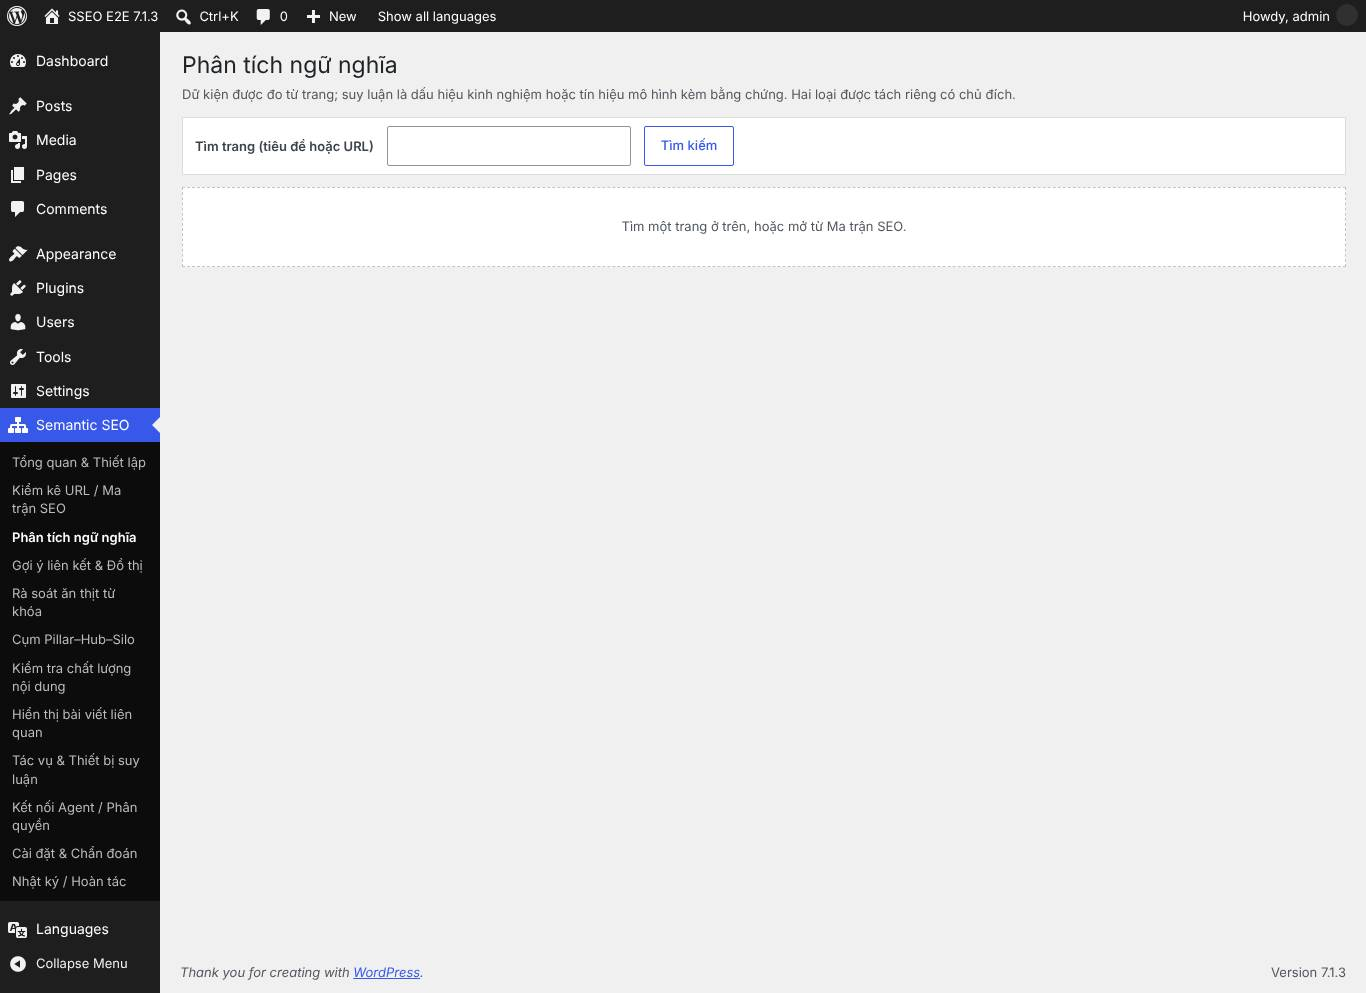
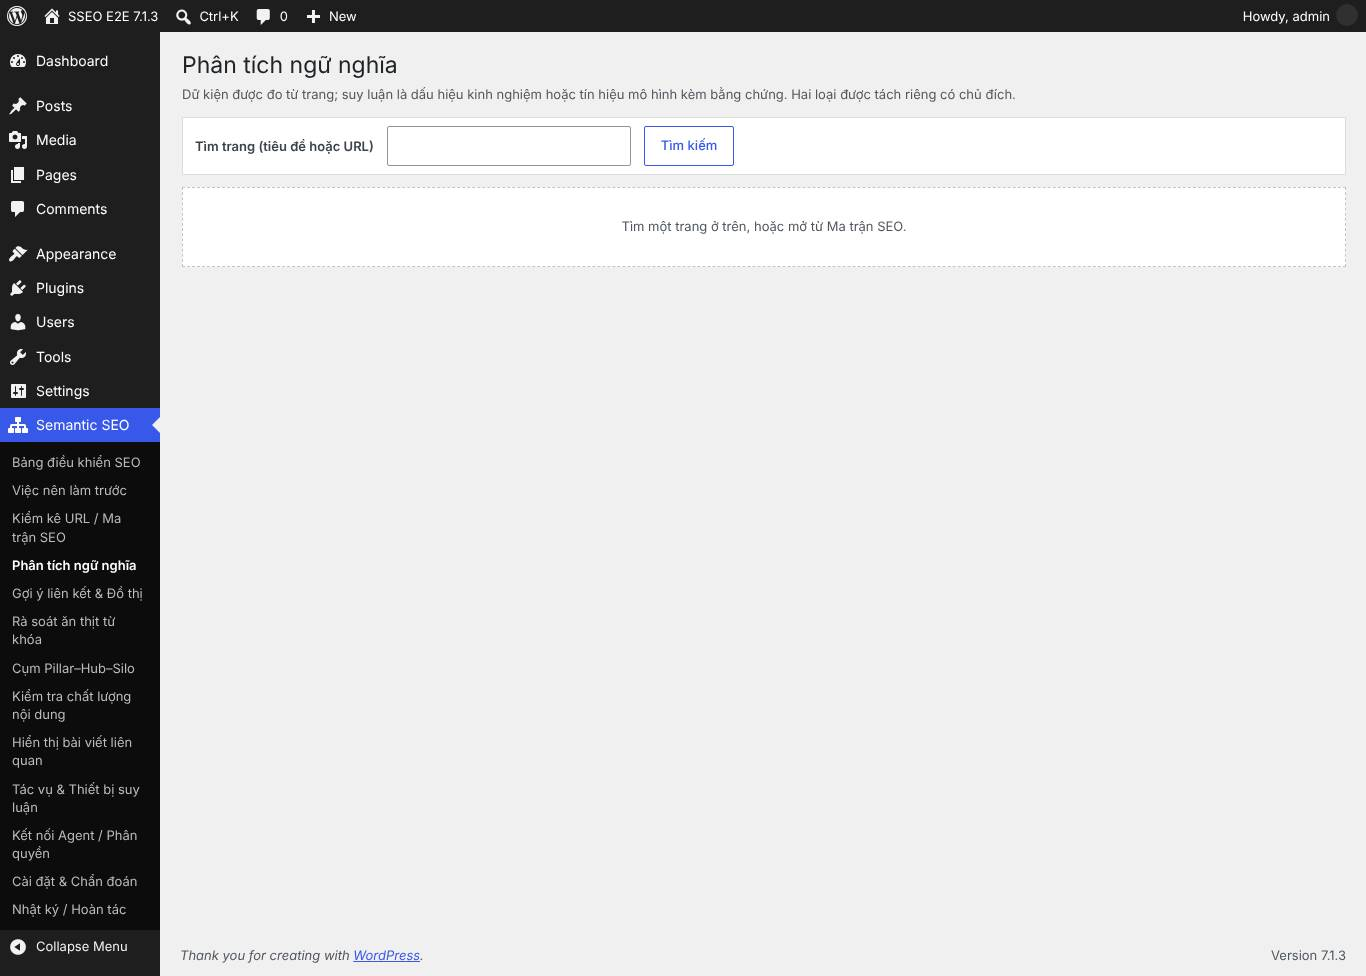
fix: no SQL error on an incomplete database; CI fixes for the renamed vector column
- Dashboard (system check, Qwen card) and /status no longer query the
  embeddings table while it is missing (the MariaDB 11.7+ case before the
  upgrade): they report zero vectors instead of logging "Table ...
  doesn't exist". Regression test: the dashboard of a 15/16-table
  install never reads the missing table (fails before this change).
- DashboardDataTest expected the Qwen state of a build with the browser
  runtime bundled; the CI integration job has no bundle, so the state is
  'unavailable' there. The test now checks the state for both builds.
- tests/e2e/private-worker.sh still selected e.vector (renamed to
  vector_data in schema 4): the independent re-check got no row and the
  real-model CI job failed. Fails loudly now if no vector is stored.
- Benchmark also measures /health, /priorities and /scans.
- Screenshots regenerated from the beta.4 build (new dashboard).

Local: integration 139/139 on MariaDB 10.11.14, 11.8.9 and MySQL 8.4;
HTTP agent 26/26 (WP 7.1.3, 6.9.10, MCP Adapter 0.7.1), 22/22 (6.5.13);
private worker (fixture) 89/89 stored, max abs diff 4.47e-08.

Claude-Session: https://claude.ai/code/session_01GCYBjXPGwVJAvRvFYM2KsS

diff --git a/includes/Services/HealthReport.php b/includes/Services/HealthReport.php
@@ -140,7 +140,7 @@ final class HealthReport {
 				. ( $cron_off ? __( 'WP-Cron is disabled: scans advance while this page is open or through WP-CLI.', 'semantic-seo-engine-vi-en' ) : __( 'Scans run in the background through WP-Cron in short batches.', 'semantic-seo-engine-vi-en' ) ),
 		);
 
-		$qwen     = self::qwen();
+		$qwen     = self::qwen( $db['ready'] );
 		$checks[] = array(
 			'id'     => 'model',
 			'level'  => 'ok',
@@ -161,11 +161,18 @@ final class HealthReport {
 	/**
 	 * State of the optional Qwen3 embedding model.
 	 *
+	 * @param bool|null $db_ready Whether every plugin table exists (null = check). The embeddings table
+	 *                            is the one MariaDB 11.7+ refused before schema 4, so it is not queried
+	 *                            while the schema is incomplete.
 	 * @return array{state:string,label:string,detail:string,runtime_bundled:bool,vectors:int,documents_with_vector:int,device_verified:bool}
 	 */
-	public static function qwen() {
+	public static function qwen( $db_ready = null ) {
+		$db_ready = null === $db_ready ? Environment::db_schema()['ready'] : (bool) $db_ready;
 		$profile  = ModelProfile::active();
-		$stats    = EmbeddingRepository::stats( $profile['model_key'] );
+		$stats    = $db_ready ? EmbeddingRepository::stats( $profile['model_key'] ) : array(
+			'vectors_current_model' => 0,
+			'documents_with_vector' => 0,
+		);
 		$bundled  = file_exists( SSEO_DIR . 'assets/vendor/transformers/transformers.min.js' );
 		$verified = DeviceVerification::is_verified( get_current_user_id(), $profile['model_key'] );
 		if ( ! $bundled ) {
@@ -239,7 +246,7 @@ final class HealthReport {
 			'last_pilot'   => ScanHistory::latest( 'pilot' ),
 			'diff'         => $db['ready'] ? ScanHistory::diff( 10 ) : null,
 			'estimate'     => ScanHistory::estimate( (int) $scope['total'] ),
-			'qwen'         => self::qwen(),
+			'qwen'         => self::qwen( $db['ready'] ),
 			'permissions'  => self::permissions(),
 			'read_only'    => true,
 			'generated_at' => gmdate( 'c' ),

diff --git a/tests/php/Integration/AdminUiTest.php b/tests/php/Integration/AdminUiTest.php
@@ -402,8 +402,19 @@ final class AdminUiTest extends TestCase {
 		remove_filter( 'query', array( $this, '_create_temporary_tables' ) );
 		remove_filter( 'query', array( $this, '_drop_temporary_tables' ) );
 		global $wpdb;
-		$wpdb->query( 'DROP TABLE IF EXISTS ' . \SemanticSEO\Database\Schema::table( 'embeddings' ) ); // phpcs:ignore WordPress.DB
+		$table = \SemanticSEO\Database\Schema::table( 'embeddings' );
+		$wpdb->query( 'DROP TABLE IF EXISTS ' . $table ); // phpcs:ignore WordPress.DB
+		$read = array();
+		$spy  = static function ( $q ) use ( $table, &$read ) {
+			if ( false !== stripos( $q, 'FROM ' . $table ) ) {
+				$read[] = $q;
+			}
+			return $q;
+		};
+		add_filter( 'query', $spy );
 		$html = $this->render_page( 'sseo' );
+		remove_filter( 'query', $spy );
+		$this->assertSame( array(), $read, 'the dashboard never reads the missing table (no SQL error on an incomplete database)' );
 		$this->assertStringContainsString( 'sseo-health--error', $html );
 		$this->assertStringContainsString( 'Missing: embeddings', $html );
 		$this->assertStringContainsString( 'value="sseo_repair_db"', $html );

diff --git a/tests/php/Integration/DashboardDataTest.php b/tests/php/Integration/DashboardDataTest.php
@@ -37,7 +37,10 @@ final class DashboardDataTest extends TestCase {
 		$this->assertTrue( $o['read_only'] );
 		$this->assertNotEmpty( $o['permissions']['allowed'] );
 		$this->assertContains( 'Create 301 redirects', $o['permissions']['not_allowed'] );
-		$this->assertSame( 'not_enabled', $o['qwen']['state'] );
+		// The browser runtime is bundled by the release build (npm run build:vendor), not in every test checkout.
+		$bundled = file_exists( SSEO_DIR . 'assets/vendor/transformers/transformers.min.js' );
+		$this->assertSame( $bundled, $o['qwen']['runtime_bundled'] );
+		$this->assertSame( $bundled ? 'not_enabled' : 'unavailable', $o['qwen']['state'] );
 	}
 
 	public function test_priority_queue_is_ordered_explained_and_filterable() {

diff --git a/includes/Services/Api.php b/includes/Services/Api.php
@@ -107,7 +107,12 @@ final class Api {
 			'link_coverage'   => LinkGraph::coverage(),
 			'findings'        => FindingRepository::summary(),
 			'semantic'        => array_merge(
-				EmbeddingRepository::stats( $profile['model_key'] ),
+				// MariaDB 11.7+ refused the embeddings table before schema 4: report zero, not a SQL error.
+				in_array( 'embeddings', $env['db_schema']['missing'], true ) ? array(
+					'vectors_current_model' => 0,
+					'documents_with_vector' => 0,
+					'vectors_other_models'  => 0,
+				) : EmbeddingRepository::stats( $profile['model_key'] ),
 				array(
 					'model_id'  => $profile['model_id'],
 					'revision'  => $profile['revision'],
